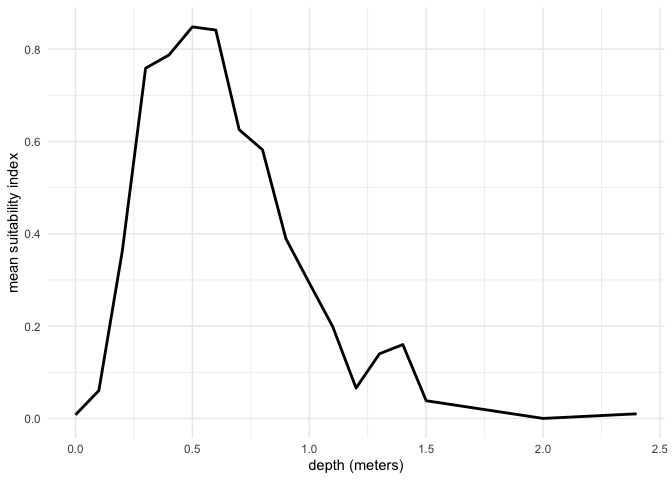
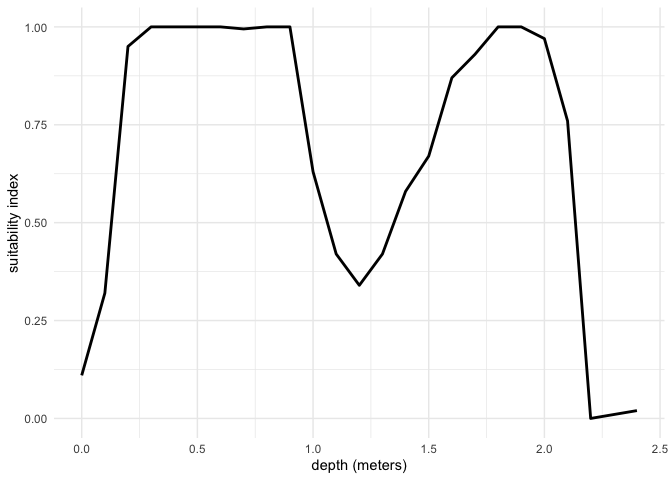
updating to add one more plot of aggregate HSI

diff --git a/data-raw/scripts/spawning-criteria-comparison.md b/data-raw/scripts/spawning-criteria-comparison.md
@@ -1,7 +1,7 @@
 Spawning Habitat Suitability Criteria
 ================
 [Maddee Rubenson](mailto:mrubenson@flowwest.com)
-2024-07-11
+2024-07-16
 
 - [Habitat Suitability Criteria](#habitat-suitability-criteria)
 - [Objective](#objective)
@@ -100,7 +100,7 @@ spawning_hsc |>
 ![](spawning-criteria-comparison_files/figure-gfm/unnamed-chunk-2-1.png)<!-- -->
 
 ``` r
-# Take an average across all reaches
+# Take max across all reaches
 spawning_hsc |> 
   filter(suitability_metric == "Depth") |> 
   filter(units_si < 3,
@@ -115,6 +115,22 @@ spawning_hsc |>
 ```
 
 ![](spawning-criteria-comparison_files/figure-gfm/unnamed-chunk-2-2.png)<!-- -->
+
+``` r
+spawning_hsc |> 
+  filter(suitability_metric == "Depth") |> 
+  filter(units_si < 3,
+         species == "Chinook") |>   
+  mutate(units_si = round(units_si, 1)) |> 
+  group_by(units_si) |> 
+  summarise(max_suit_index = max(suitability_index)) |> 
+  ggplot() + 
+  geom_line(aes(x = units_si, y = max_suit_index), size = 1) + 
+  xlab('depth (meters)') + 
+  ylab('suitability index') 
+```
+
+![](spawning-criteria-comparison_files/figure-gfm/unnamed-chunk-2-3.png)<!-- -->
 
 ### Velocity HSI
 
@@ -134,7 +150,7 @@ spawning_hsc |>
 ![](spawning-criteria-comparison_files/figure-gfm/unnamed-chunk-3-1.png)<!-- -->
 
 ``` r
-# Take an average
+# Take max
 spawning_hsc |> 
   filter(suitability_metric == "Velocity") |> 
   filter(units_si < 30,
@@ -149,3 +165,19 @@ spawning_hsc |>
 ```
 
 ![](spawning-criteria-comparison_files/figure-gfm/unnamed-chunk-3-2.png)<!-- -->
+
+``` r
+spawning_hsc |> 
+  filter(suitability_metric == "Velocity") |> 
+  filter(units_si < 30,
+         species == "Chinook") |>   
+  mutate(units_si = round(units_si, 1)) |> 
+  group_by(units_si) |> 
+  summarise(max_suit_index = max(suitability_index)) |> 
+  ggplot() + 
+  geom_line(aes(x = units_si, y = max_suit_index), size = 1) + 
+  xlab('velocity (meters/second)')  + 
+  ylab('suitability index')
+```
+
+![](spawning-criteria-comparison_files/figure-gfm/unnamed-chunk-3-3.png)<!-- -->
